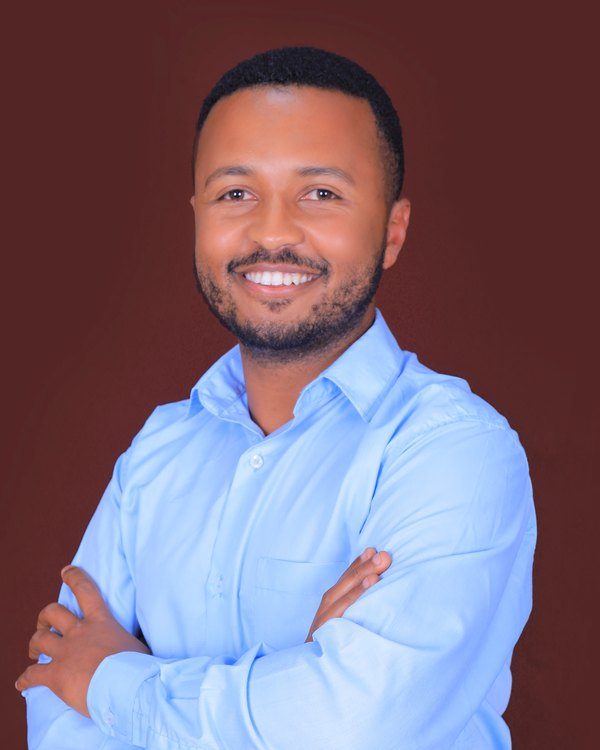
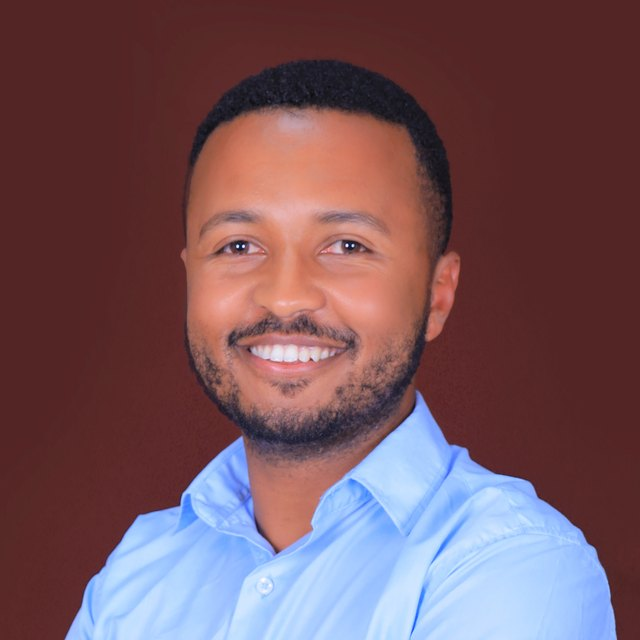
Make the portrait circular with a white ring
Recrop from the camera original to a square framed for a circle — head
centred with headroom, cropping around the upper chest — rather than
letting object-fit centre-crop the old 4:5 file, which cut awkwardly.
640x640, 36 KB.

The ring is white as asked. Against the off-white light theme white on
near-white leaves the disc with no edge at all, so the light theme adds a
hairline box-shadow underneath it; the ring itself stays white in both.

diff --git a/styles.css b/styles.css
@@ -129,18 +129,21 @@ body {
   padding-bottom: 1rem;
 }
 
-/* A half-body portrait does not survive a circular crop at this size, so it
-   sits in a panel that matches the project cards instead. */
 .portrait {
   display: block;
   width: 132px;
   height: auto;
-  aspect-ratio: 4 / 5;
+  aspect-ratio: 1;
   object-fit: cover;
-  object-position: 50% 12%;
-  border: 1px solid var(--border);
-  border-radius: var(--radius);
+  border-radius: 50%;
+  border: 4px solid #fff;
   background: var(--surface-2);
+}
+
+/* The white ring all but vanishes against the off-white page, so give the
+   disc a hairline edge to sit on in the light theme. */
+[data-theme="light"] .portrait {
+  box-shadow: 0 0 0 1px var(--border-hi);
 }
 
 .masthead h1 {
@@ -370,7 +373,7 @@ a:focus-visible {
     align-items: start;
   }
   .masthead-text { grid-column: 1; grid-row: 1; }
-  .portrait { grid-column: 2; grid-row: 1; width: 190px; }
+  .portrait { grid-column: 2; grid-row: 1; width: 190px; border-width: 5px; }
 
   .project {
     display: grid;

diff --git a/index.html b/index.html
@@ -60,7 +60,7 @@
   <header class="masthead">
     <!-- Source order puts the photo first so it leads on mobile; on wide
          screens grid placement moves it into the right-hand column. -->
-    <img class="portrait" src="images/portrait.jpg" alt="Dawit Sileshi" width="600" height="750" decoding="async">
+    <img class="portrait" src="images/portrait.jpg" alt="Dawit Sileshi" width="640" height="640" decoding="async">
     <div class="masthead-text">
       <h1>Dawit Sileshi</h1>
       <p class="role">Full-stack engineer, Addis Ababa</p>

diff --git a/README.md b/README.md
@@ -15,14 +15,17 @@ netlify.toml    Deploy config (publish root, cache + security headers)
 
 ## The portrait
 
-`images/portrait.jpg` is a 4:5 crop at 600×750, rendered at 132px wide on mobile and
-190px on desktop. It sits below the name while narrow and moves into a right-hand column
-at 60em.
+`images/portrait.jpg` is a square crop at 640×640, shown as a circle with a white ring —
+132px across on mobile, 190px on desktop. It sits below the name while narrow and moves
+into a right-hand column at 60em.
 
-To swap it, crop to **4:5** and export around 600px wide — that covers 2× displays at the
-size it is shown. If you use a different aspect ratio, either update the `aspect-ratio` in
-`.portrait` or let `object-fit: cover` crop it, steering the framing with `object-position`
-(currently `50% 12%`, which favours the top of the frame where a head usually sits).
+To swap it, crop **square** and framed for a circle: head roughly centred with a little
+headroom, cropping around the upper chest. Export about 640px, which covers 2× displays at
+the size it is shown. Anything not square will be centre-cropped by `object-fit: cover`,
+which usually cuts a portrait badly — crop it yourself rather than relying on that.
+
+The white ring is near-invisible against the off-white light theme, so
+`[data-theme="light"] .portrait` adds a hairline `box-shadow` to keep the disc defined.
 
 The full-resolution camera export is git-ignored — see `images/YOAB*.jpg` in `.gitignore`.
 It is 3.8 MB and the site never serves it, so it is kept out of the repo deliberately.
